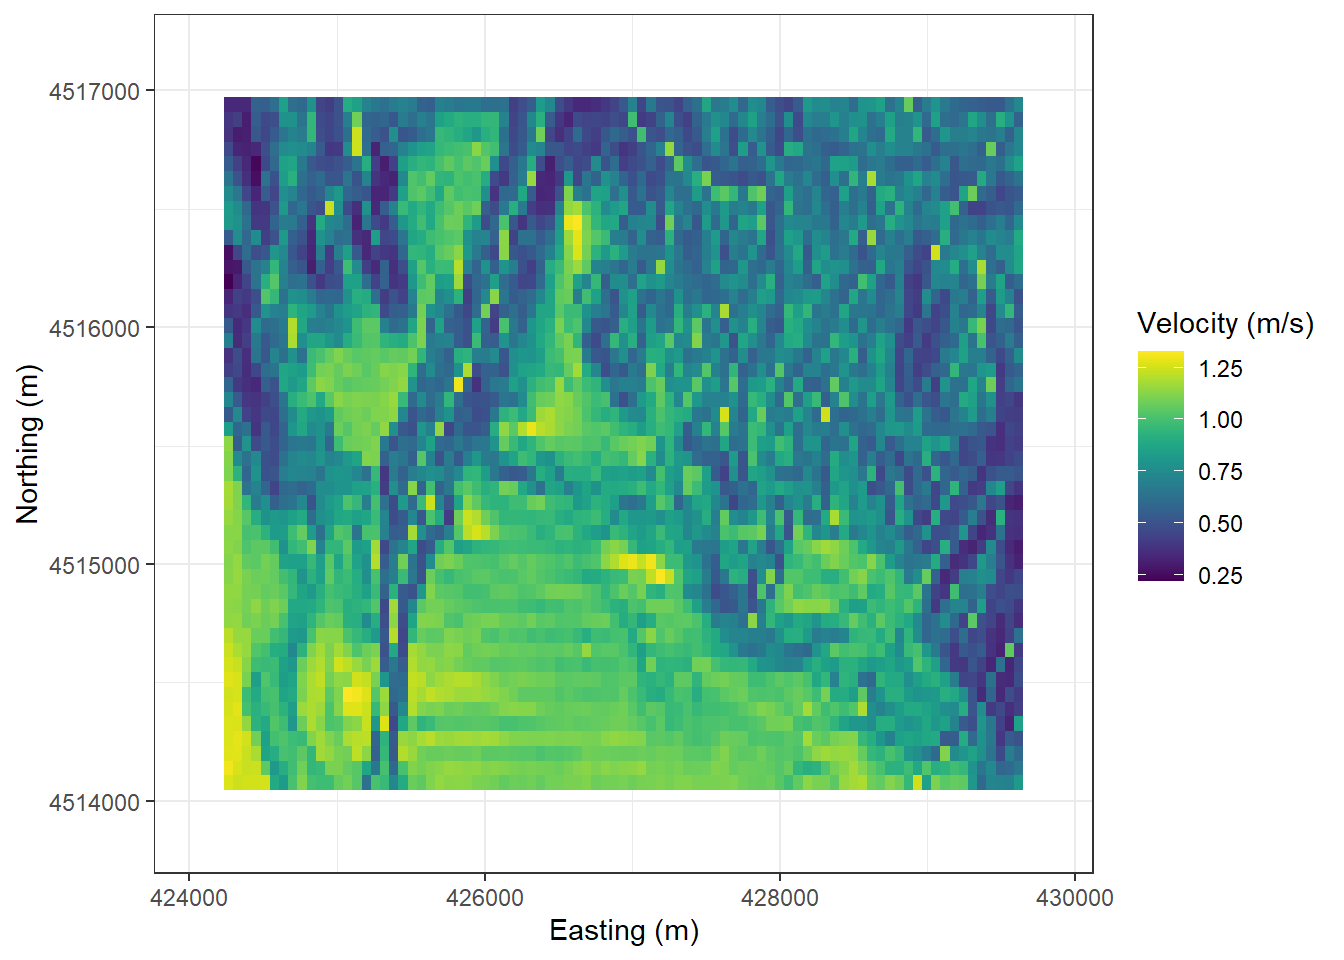
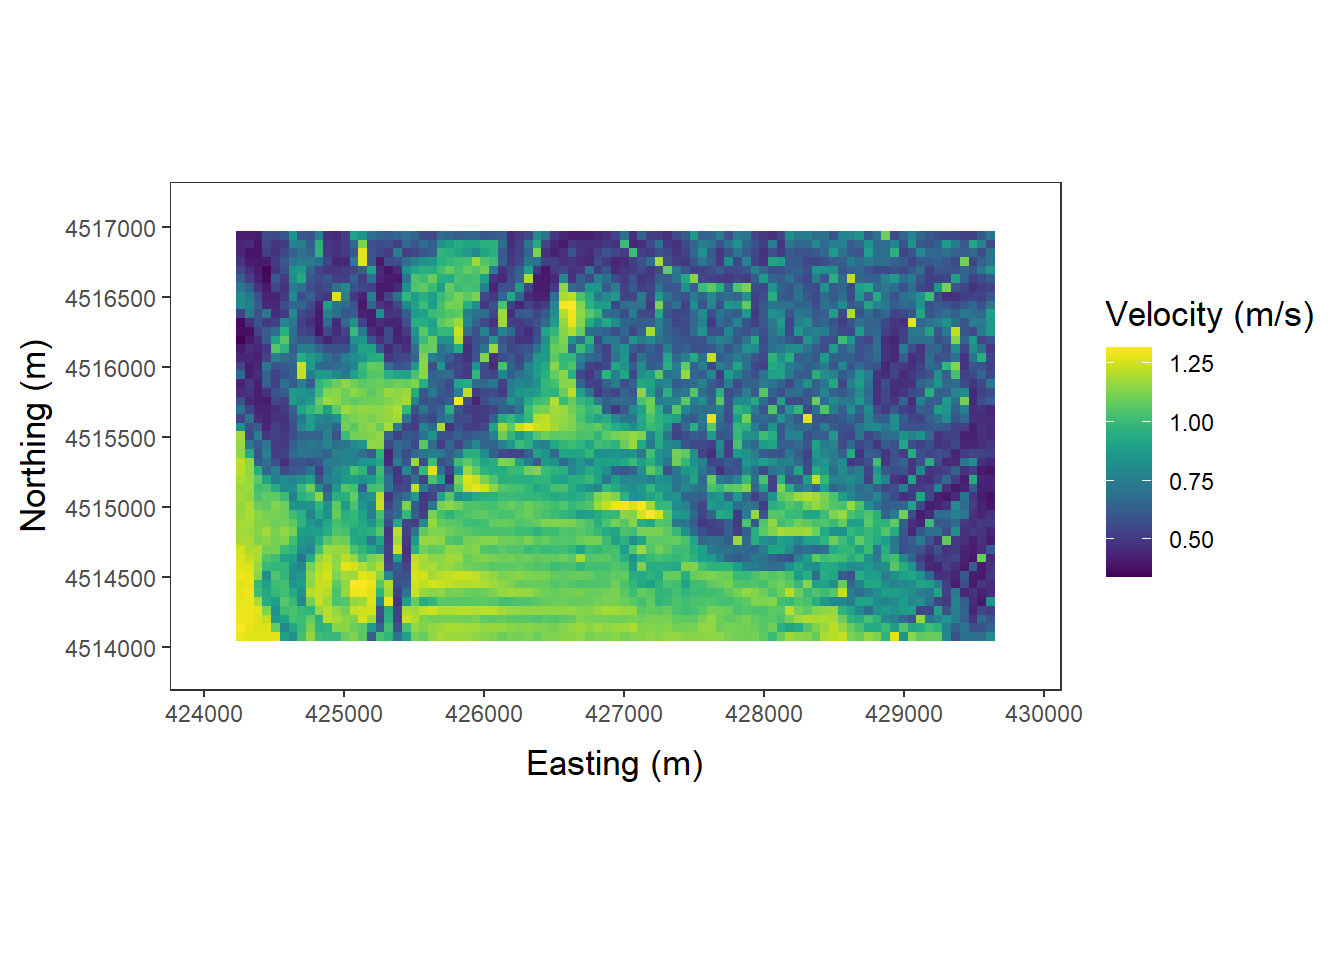
laplace to lorenz

diff --git a/public/post/estimating-hiking-velocity-with-rhike/index.html b/public/post/estimating-hiking-velocity-with-rhike/index.html
@@ -150,11 +150,11 @@
 <script src="/rmarkdown-libs/header-attrs/header-attrs.js"></script>
 
 
-<p>updated: 05 May 2020</p>
+<p>updated: May 13, 2020 (<em>replaced Laplace with Lorentz distribution at Campbell’s suggestion</em>)</p>
 <p>I wanted to learn how to write an R package and I had this recurrent use-case (estimating cost-distance on a grid), so I made <a href="https://github.com/kbvernon/rHike"><code>rHike</code></a>. It’s a super-lightweight package that builds on Jacob van Etten’s <a href="https://agrobioinfoservices.github.io/gdistance/"><code>gdistance</code></a> by implementing both Tobler’s (1993) and Campbell’s (2019) hiking functions, though others could be added. Mainly, it just simplifies the user interface. Development mostly followed the workflow suggested by Hadley Wickham and Jenny Bryan in their <a href="https://r-pkgs.org/">R Packages</a> book. Mostly…</p>
 <p><br></p>
-<p><em>Where are we going?</em> Intuitively, walking speed should vary as a function of slope. Campbell’s Hiking Function reflects this using an empirically derived version of the Laplace distribution:</p>
-<p><span class="math display">\[f(x) = \frac{c}{2b}\, exp\left(\frac{|x - a|}{b}\right) + d + e\, x\]</span></p>
+<p><em>Where are we going?</em> Intuitively, walking speed should vary as a function of slope. Campbell’s Hiking Function reflects this using an empirically derived version of the Lorentz distribution:</p>
+<p><span class="math display">\[ f(x) = \frac{c}{\pi\, b\left(1+\left[\frac{x-a}{b}\right]^{2}\right)} + d + e\, x \]</span></p>
 <p>where <span class="math inline">\(x\)</span> is the slope at a location measured in degrees. The idea here is first to get an estimate of slope, then use a hiking function like Campbell’s to calculate velocity, and finally to use velocity to estimate travel time (among other cost-distances).</p>
 <pre class="r"><code>slope &lt;- seq(-50, 50, by = 1)
 
@@ -173,7 +173,7 @@ library(tidyverse)
 library(viridis)</code></pre>
 <p><br></p>
 <p>Coordinate Reference System (CRS):</p>
-<pre class="r"><code>crs_utm12 &lt;- &quot;+init=epsg:26912 +proj=utm +zone=12 +datum=NAD83 +units=m +no_defs&quot;</code></pre>
+<pre class="r"><code>utm12 &lt;- st_crs(26912)</code></pre>
 <p><br></p>
 <p>It should really be emphasized that</p>
 <blockquote>
@@ -187,7 +187,7 @@ library(viridis)</code></pre>
 <p>First, we read in a DEM of the foothills in Salt Lake City, Utah:</p>
 <pre class="r"><code>dem &lt;- raster(system.file(&quot;extdata/slc.tif&quot;, package = &quot;rHike&quot;))
 
-dem &lt;- projectRaster(dem, crs = crs_utm12)</code></pre>
+dem &lt;- projectRaster(dem, crs = utm12$proj4string)</code></pre>
 <p><br></p>
 <p>Next we generate an arbitrary point pattern.</p>
 <pre class="r"><code>start_points &lt;- st_sf(id = 1:3,
@@ -195,22 +195,22 @@ dem &lt;- projectRaster(dem, crs = crs_utm12)</code></pre>
                       geometry = st_sfc(st_point(c(424350, 4514200)),
                                         st_point(c(426000, 4515000)),
                                         st_point(c(429000, 4516500)),
-                                        crs = 26912))
+                                        crs = utm12))
 
 end_points &lt;- st_sf(id = 1:2,
                     typ = &quot;end&quot;,
                     geometry = st_sfc(st_point(c(426200, 4516400)),
                                       st_point(c(427600, 4515600)),
-                                      crs = 26912))</code></pre>
+                                      crs = utm12))</code></pre>
 <p><br></p>
-<p><img src="/post/2020-04-13-calculating-cost-distance-with-rhike_files/figure-html/unnamed-chunk-8-1.png" width="672" style="display: block; margin: auto;" /></p>
+<p><img src="/post/2020-04-13-calculating-cost-distance-with-rhike_files/figure-html/unnamed-chunk-7-1.png" width="672" style="display: block; margin: auto;" /></p>
 <p><br></p>
 <p>Now we use the elevation data to generate a slope raster and calculate a velocity surface for the average hiker using Campbell’s Hiking Function.</p>
 <pre class="r"><code>slope &lt;- hf_slope(dem)
 
 velocity &lt;- hf_velocity(slope, hf = &quot;campbell&quot;, decile = 10)</code></pre>
 <p><br></p>
-<p><img src="/post/2020-04-13-calculating-cost-distance-with-rhike_files/figure-html/unnamed-chunk-10-1.png" width="672" style="display: block; margin: auto;" /></p>
+<p><img src="/post/2020-04-13-calculating-cost-distance-with-rhike_files/figure-html/unnamed-chunk-9-1.png" width="672" style="display: block; margin: auto;" /></p>
 <p><br></p>
 </div>
 <div id="calculating-accumulated-cost" class="section level4">
@@ -223,7 +223,7 @@ velocity &lt;- hf_velocity(slope, hf = &quot;campbell&quot;, decile = 10)</code>
 # convert seconds to minutes
 cost &lt;- cost/60</code></pre>
 <p><br></p>
-<p><img src="/post/2020-04-13-calculating-cost-distance-with-rhike_files/figure-html/unnamed-chunk-12-1.png" width="672" style="display: block; margin: auto;" /></p>
+<p><img src="/post/2020-04-13-calculating-cost-distance-with-rhike_files/figure-html/unnamed-chunk-11-1.png" width="672" style="display: block; margin: auto;" /></p>
 <p><br></p>
 <p>That looks about right, twenty’ish minutes for the average hiker to walk a half-mile or so around the SLC foothills.</p>
 <p><br></p>
@@ -232,7 +232,7 @@ cost &lt;- cost/60</code></pre>
 <h4>Calculating Least-Cost Path</h4>
 <pre class="r"><code>short_paths &lt;- hf_shortPath(velocity, start_points, end_points)</code></pre>
 <p><br></p>
-<p><img src="/post/2020-04-13-calculating-cost-distance-with-rhike_files/figure-html/unnamed-chunk-14-1.png" width="672" style="display: block; margin: auto;" /></p>
+<p><img src="/post/2020-04-13-calculating-cost-distance-with-rhike_files/figure-html/unnamed-chunk-13-1.png" width="672" style="display: block; margin: auto;" /></p>
 <p><br><br></p>
 </div>
 <div id="future-work" class="section level4">

diff --git a/content/post/2020-04-13-calculating-cost-distance-with-rhike.html b/content/post/2020-04-13-calculating-cost-distance-with-rhike.html
@@ -14,11 +14,11 @@ tags:
 <script src="/rmarkdown-libs/header-attrs/header-attrs.js"></script>
 
 
-<p>updated: 05 May 2020</p>
+<p>updated: May 13, 2020 (<em>replaced Laplace with Lorentz distribution at Campbell’s suggestion</em>)</p>
 <p>I wanted to learn how to write an R package and I had this recurrent use-case (estimating cost-distance on a grid), so I made <a href="https://github.com/kbvernon/rHike"><code>rHike</code></a>. It’s a super-lightweight package that builds on Jacob van Etten’s <a href="https://agrobioinfoservices.github.io/gdistance/"><code>gdistance</code></a> by implementing both Tobler’s (1993) and Campbell’s (2019) hiking functions, though others could be added. Mainly, it just simplifies the user interface. Development mostly followed the workflow suggested by Hadley Wickham and Jenny Bryan in their <a href="https://r-pkgs.org/">R Packages</a> book. Mostly…</p>
 <p><br></p>
-<p><em>Where are we going?</em> Intuitively, walking speed should vary as a function of slope. Campbell’s Hiking Function reflects this using an empirically derived version of the Laplace distribution:</p>
-<p><span class="math display">\[f(x) = \frac{c}{2b}\, exp\left(\frac{|x - a|}{b}\right) + d + e\, x\]</span></p>
+<p><em>Where are we going?</em> Intuitively, walking speed should vary as a function of slope. Campbell’s Hiking Function reflects this using an empirically derived version of the Lorentz distribution:</p>
+<p><span class="math display">\[ f(x) = \frac{c}{\pi\, b\left(1+\left[\frac{x-a}{b}\right]^{2}\right)} + d + e\, x \]</span></p>
 <p>where <span class="math inline">\(x\)</span> is the slope at a location measured in degrees. The idea here is first to get an estimate of slope, then use a hiking function like Campbell’s to calculate velocity, and finally to use velocity to estimate travel time (among other cost-distances).</p>
 <pre class="r"><code>slope &lt;- seq(-50, 50, by = 1)
 
@@ -37,7 +37,7 @@ library(tidyverse)
 library(viridis)</code></pre>
 <p><br></p>
 <p>Coordinate Reference System (CRS):</p>
-<pre class="r"><code>crs_utm12 &lt;- &quot;+init=epsg:26912 +proj=utm +zone=12 +datum=NAD83 +units=m +no_defs&quot;</code></pre>
+<pre class="r"><code>utm12 &lt;- st_crs(26912)</code></pre>
 <p><br></p>
 <p>It should really be emphasized that</p>
 <blockquote>
@@ -51,7 +51,7 @@ library(viridis)</code></pre>
 <p>First, we read in a DEM of the foothills in Salt Lake City, Utah:</p>
 <pre class="r"><code>dem &lt;- raster(system.file(&quot;extdata/slc.tif&quot;, package = &quot;rHike&quot;))
 
-dem &lt;- projectRaster(dem, crs = crs_utm12)</code></pre>
+dem &lt;- projectRaster(dem, crs = utm12$proj4string)</code></pre>
 <p><br></p>
 <p>Next we generate an arbitrary point pattern.</p>
 <pre class="r"><code>start_points &lt;- st_sf(id = 1:3,
@@ -59,22 +59,22 @@ dem &lt;- projectRaster(dem, crs = crs_utm12)</code></pre>
                       geometry = st_sfc(st_point(c(424350, 4514200)),
                                         st_point(c(426000, 4515000)),
                                         st_point(c(429000, 4516500)),
-                                        crs = 26912))
+                                        crs = utm12))
 
 end_points &lt;- st_sf(id = 1:2,
                     typ = &quot;end&quot;,
                     geometry = st_sfc(st_point(c(426200, 4516400)),
                                       st_point(c(427600, 4515600)),
-                                      crs = 26912))</code></pre>
+                                      crs = utm12))</code></pre>
 <p><br></p>
-<p><img src="/post/2020-04-13-calculating-cost-distance-with-rhike_files/figure-html/unnamed-chunk-8-1.png" width="672" style="display: block; margin: auto;" /></p>
+<p><img src="/post/2020-04-13-calculating-cost-distance-with-rhike_files/figure-html/unnamed-chunk-7-1.png" width="672" style="display: block; margin: auto;" /></p>
 <p><br></p>
 <p>Now we use the elevation data to generate a slope raster and calculate a velocity surface for the average hiker using Campbell’s Hiking Function.</p>
 <pre class="r"><code>slope &lt;- hf_slope(dem)
 
 velocity &lt;- hf_velocity(slope, hf = &quot;campbell&quot;, decile = 10)</code></pre>
 <p><br></p>
-<p><img src="/post/2020-04-13-calculating-cost-distance-with-rhike_files/figure-html/unnamed-chunk-10-1.png" width="672" style="display: block; margin: auto;" /></p>
+<p><img src="/post/2020-04-13-calculating-cost-distance-with-rhike_files/figure-html/unnamed-chunk-9-1.png" width="672" style="display: block; margin: auto;" /></p>
 <p><br></p>
 </div>
 <div id="calculating-accumulated-cost" class="section level4">
@@ -87,7 +87,7 @@ velocity &lt;- hf_velocity(slope, hf = &quot;campbell&quot;, decile = 10)</code>
 # convert seconds to minutes
 cost &lt;- cost/60</code></pre>
 <p><br></p>
-<p><img src="/post/2020-04-13-calculating-cost-distance-with-rhike_files/figure-html/unnamed-chunk-12-1.png" width="672" style="display: block; margin: auto;" /></p>
+<p><img src="/post/2020-04-13-calculating-cost-distance-with-rhike_files/figure-html/unnamed-chunk-11-1.png" width="672" style="display: block; margin: auto;" /></p>
 <p><br></p>
 <p>That looks about right, twenty’ish minutes for the average hiker to walk a half-mile or so around the SLC foothills.</p>
 <p><br></p>
@@ -96,7 +96,7 @@ cost &lt;- cost/60</code></pre>
 <h4>Calculating Least-Cost Path</h4>
 <pre class="r"><code>short_paths &lt;- hf_shortPath(velocity, start_points, end_points)</code></pre>
 <p><br></p>
-<p><img src="/post/2020-04-13-calculating-cost-distance-with-rhike_files/figure-html/unnamed-chunk-14-1.png" width="672" style="display: block; margin: auto;" /></p>
+<p><img src="/post/2020-04-13-calculating-cost-distance-with-rhike_files/figure-html/unnamed-chunk-13-1.png" width="672" style="display: block; margin: auto;" /></p>
 <p><br><br></p>
 </div>
 <div id="future-work" class="section level4">
